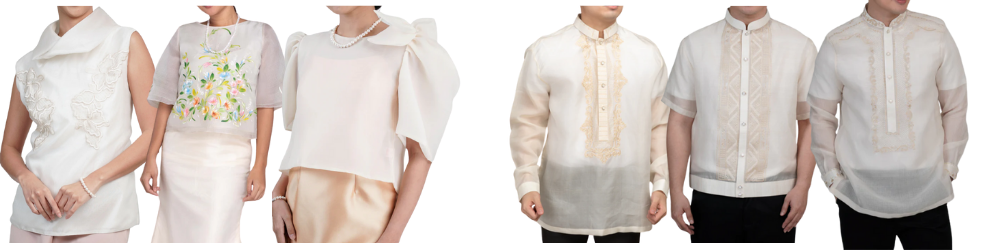
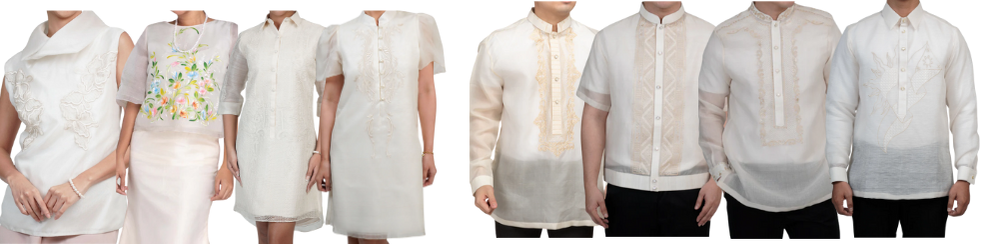
fix: update copy and images

diff --git a/app/page.tsx b/app/page.tsx
@@ -303,34 +303,37 @@ export default function ScrollSPA() {
           <motion.div
             initial={{ opacity: 0, y: 50 }}
             whileInView={{ opacity: 1, y: 0 }}
-            transition={{ type: 'spring', duration: .6, delay: .6 }} className='flex flex-col items-center gap-2 text-primary-blue w-full'>
+            transition={{ type: 'spring', duration: .6, delay: .6 }} className='flex flex-col items-center gap-2 text-primary-blue w-full text-center justify-center'>
             <strong>ninongs and ninangs</strong>
-            <span>barong and slacks/skirts</span>
 
-            <Image src='/assets/barong.png' width={1024} height={768} alt="barong" className='w-svw aspect-auto max-w-2xl' />
+            <div className="w-full text-center">
+              <span>cream/beige barong dress / barong and slacks (ninong: black shoes) or skirt</span>
+            </div>
+
+            <Image src='/assets/barong.png' width={1024} height={768} alt="barong" className='w-full aspect-auto max-w-2xl' />
           </motion.div>
 
           <motion.div
             initial={{ opacity: 0, y: 50 }}
             whileInView={{ opacity: 1, y: 0 }}
             transition={{ type: 'spring', duration: .6, delay: .7 }}
-            className='flex flex-col items-center gap-2 text-primary-blue w-svw'>
+            className='flex flex-col items-center gap-2 text-primary-blue w-svw px-2'>
             <strong>guests' dress code</strong>
             <span>
               please celebrate with us in vibrant colors! <br />
-              (strictly no white and black/dark attire) <br />
-              <strong>girls:</strong> long dresses, flowy, floral, and festive <br />
-              <strong>boys:</strong> long / short sleeves polo and slacks (black, khaki, gray, white)
+              (<strong>strictly no</strong> white and black/dark attire and denim pants) <br />
+              please wear long dresses, flowy, floral, and festive, <br />
+              long / short sleeves polo and slacks (black, khaki, gray, white)
             </span>
 
-            <Image src='/assets/guests.png' width={1024} height={768} alt="guests" className='w-full aspect-auto max-w-2xl' />
+            <Image src='/assets/guests.png' width={1024} height={768} alt="guests" className='w-5/6 aspect-auto max-w-2xl' />
           </motion.div>
         </div>
       </section>
 
       {/* next */}
       <section className="bg-secondary-blue relative z-1 font-providence-sans overflow-hidden pb-7">
-        <div className="container mx-auto px-8 flex flex-col items-center gap-6 text-primary-blue text-center relative text-sm">
+        <div className="container mx-auto px-8 flex flex-col items-center gap-5 text-primary-blue text-center relative text-sm">
           <motion.div
             initial={{ opacity: 0, y: 50 }}
             whileInView={{ opacity: 1, y: 0 }}
